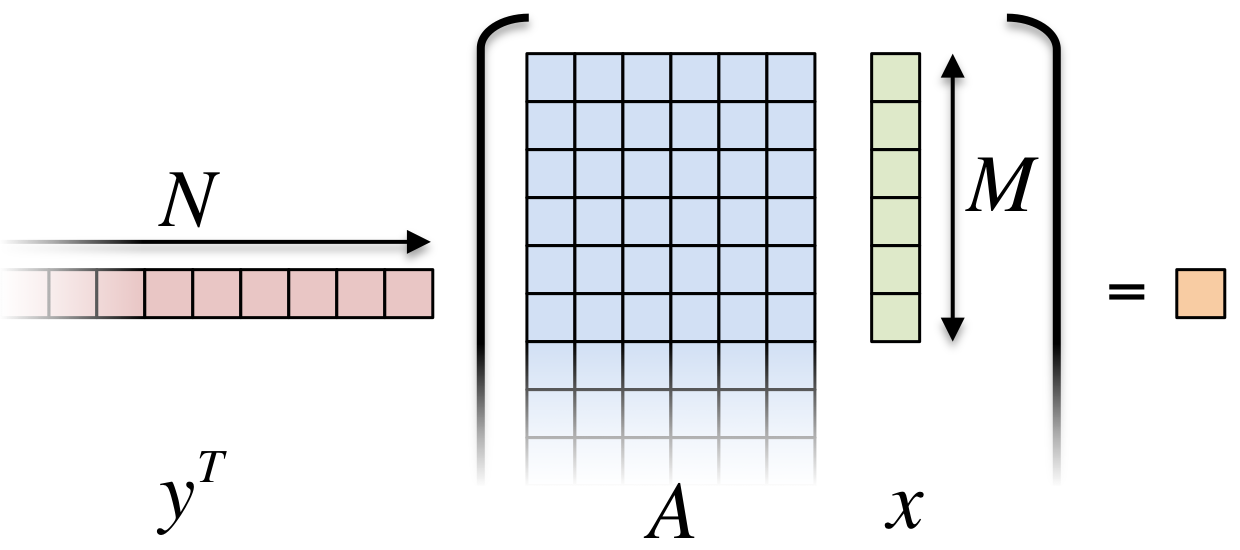
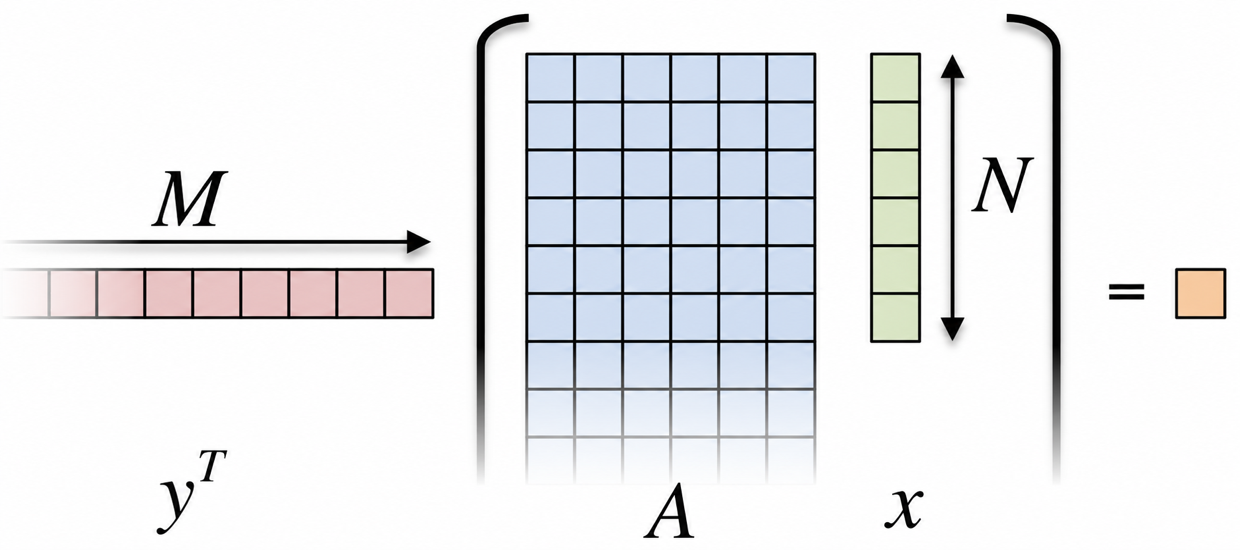
Match Matrix dimensions with textbook conventions, i.e., M rows and N columns

diff --git a/Content/Presentations/sections/Section_Hierarchical.tex b/Content/Presentations/sections/Section_Hierarchical.tex
@@ -34,10 +34,10 @@ try a scan and fill for fill array?
   \vspace{-3pt}
 
   \begin{code}[keywords={}]
-Kokkos::parallel_reduce("yAx",N,
+Kokkos::parallel_reduce("yAx",M,
   KOKKOS_LAMBDA (const int row, double & valueToUpdate) {
     double thisRowsSum = 0;
-    for (int col = 0; col < M; ++col) {
+    for (int col = 0; col < N; ++col) {
       thisRowsSum += @blueA@blue(row,col) * @darkgreenx@darkgreen(col);
     }
     valueToUpdate += @darkredy@darkred(row) * thisRowsSum;
@@ -85,7 +85,7 @@ Kokkos::parallel_reduce("yAx",N,
   \vspace{-3pt}
 
   \begin{code}[keywords={}]
-Kokkos::parallel_for("yAx", N*M,
+Kokkos::parallel_for("yAx", M*N,
   KOKKOS_LAMBDA (const size_t index) {
     const int row = extractRow(index);
     const int col = extractCol(index);
@@ -129,7 +129,7 @@ Kokkos::parallel_for("yAx", N*M,
   \begin{code}[keywords={}]
 for each row
   Functor functor(row, ...);
-  parallel_reduce(M, functor);
+  parallel_reduce(N, functor);
 }
   \end{code}
 
@@ -170,7 +170,7 @@ for each row
   \vspace{-3pt}
 
   \begin{enumerate}
-    \item{Do \textbf{one parallel launch} of \texttt{N} teams.}
+    \item{Do \textbf{one parallel launch} of \texttt{M} teams.}
     \item{Each team handles a row.}
     \item{The threads within \textbf{teams perform a reduction}.}
     \item{The thread teams \textbf{perform a reduction}.}
@@ -197,13 +197,13 @@ for each row
 
   \begin{code}
 parallel_reduce("yAx",
-  team_policy(N, Kokkos::AUTO),
+  team_policy(M, Kokkos::AUTO),
 
   KOKKOS_LAMBDA (const member_type & @blueteamMember@blue, double & @orangeupdate@orange) {
     int @purplerow@purple = @blueteamMember@blue.league_rank();
 
     double thisRowsSum = 0;
-    parallel_reduce(TeamThreadRange(@blueteamMember@blue, M),
+    parallel_reduce(TeamThreadRange(@blueteamMember@blue, N),
       [=] (int @darkgreencol@darkgreen, double & @redinnerUpdate@red) {
         @redinnerUpdate@red += A(@purplerow@purple, @darkgreencol@darkgreen) * x(@darkgreencol@darkgreen);
       }, thisRowsSum);
@@ -358,7 +358,7 @@ void operator()(const member_type & teamMember) {
   const size_t row = teamMember.league_rank();
 
   int begin = teamMember.team_rank();
-  for(int col = begin; col < M; col += teamMember.team_size()) {
+  for(int col = begin; col < N; col += teamMember.team_size()) {
     atomic_add(&@orangeresult@orange, @darkredy@darkred(row) * @blueA@blue(row,col) * @darkgreenx@darkgreen(entry));
   }
 @gray}@gray
@@ -392,7 +392,7 @@ void operator()(const member_type & teamMember) {
 @grayoperator() (member_type & teamMember, double & update) {
   const int row = teamMember.league_rank();@gray
   double @purplethisRowsSum@purple;
-  @pattern``do a reduction''@pattern(@policy``over M columns''@policy,
+  @pattern``do a reduction''@pattern(@policy``over N columns''@policy,
     [=] (const int col) {
       @purplethisRowsSum@purple += @blueA@blue(row,col) * @darkgreenx@darkgreen(col);
     });
@@ -434,7 +434,7 @@ void operator()(const member_type & teamMember) {
 @grayoperator() (const member_type & teamMember, double & update ) {
   const int row = teamMember.league_rank();@gray
   double @purplethisRowsSum@purple;
-  @patternparallel_reduce@pattern(@policyTeamThreadRange(teamMember, M)@policy,
+  @patternparallel_reduce@pattern(@policyTeamThreadRange(teamMember, N)@policy,
     [=] (const int col, double & thisRowsPartialSum ) {
       thisRowsPartialSum += @blueA@blue(row, col) * @darkgreenx@darkgreen(col);
     }, @purplethisRowsSum@purple );
@@ -549,7 +549,7 @@ parallel_something(
 \ul{\textbf{Things to try:}}
   \begin{small}
   \begin{itemize}
-  \item Vary problem size and number of rows (-S ...; -N ...)
+  \item Vary problem size and number of rows (-S ...; -M ...)
   \item Compare behavior with Exercise 4 for very non-square matrices
   \item Compare behavior of CPU vs GPU
   \end{itemize}
@@ -975,7 +975,7 @@ a third natural layer of parallelism.
 \ul{\textbf{Things to try:}}
   \begin{small}
   \begin{itemize}
-  \item Vary problem size and number of rows (-S ...; -N ...)
+  \item Vary problem size and number of rows (-S ...; -M ...)
   \item Compare behavior with TeamPolicy Exercise for very non-square matrices
   \item Compare behavior of CPU vs GPU
   \end{itemize}

diff --git a/Content/Presentations/sections/Section_KokkosKernels_BLAS.tex b/Content/Presentations/sections/Section_KokkosKernels_BLAS.tex
@@ -125,16 +125,16 @@
 %  \item Recall the Kokkos Inner Product exercise:
   \item Inner product $<y,A*x>$
   \begin{itemize}
-    \item $y$ is $Nx1$, $A$ is $NxM$,\\ $x$ is $Mx1$
+    \item $y$ is $Mx1$, $A$ is $MxN$,\\ $x$ is $Nx1$
   \end{itemize}
   \item Early exercise code looked like
 
   \begin{code}[keywords={double,parallel_reduce,for,int}]
 double result = 0;
-Kokkos::parallel_reduce("yAz", N,
+Kokkos::parallel_reduce("yAz", M,
     KOKKOS_LAMBDA (int j, double &update) {
       double temp2 = 0;
-      for (int i = 0; i < M; ++i) {
+      for (int i = 0; i < N; ++i) {
         temp2 += A(j, i) * x(i);
       }
       update += y(j) * temp2;
@@ -272,7 +272,7 @@ KokkosBlas::dot(r,x,y);
       \begin{flushleft}
       \vspace{-2em}
   \begin{code}[keywords={View,double,gemv,dot}, basicstyle=\tiny, breaklines=true]
-Kokkos::View<double*> tmp("tmp", N);
+Kokkos::View<double*> tmp("tmp", M);
 
 KokkosBlas::gemv("N",alpha,A,x,beta,tmp);
 
@@ -288,10 +288,10 @@ result = KokkosBlas::dot(y,tmp);
       \vspace{-2em}
   \begin{code}[keywords={parallel_reduce,for,int,double}, basicstyle=\tiny, breaklines=true]
 double result = 0;
-Kokkos::parallel_reduce("yAx", N, 
- KOKKOS_LAMBDA (int j, double &update) { 
+Kokkos::parallel_reduce("yAx", M,
+ KOKKOS_LAMBDA (int j, double &update) {
   double temp2 = 0;
-   for (int i = 0; i < M; ++i) { 
+   for (int i = 0; i < N; ++i) {
      temp2 += A(j, i) * x(i);
    }
    update += y(j) * temp2;

diff --git a/Content/Presentations/sections/Section_MemoryAccessPatterns.tex b/Content/Presentations/sections/Section_MemoryAccessPatterns.tex
@@ -22,10 +22,10 @@
 
   \begin{code}[keywords={}]
 Kokkos::parallel_reduce("Label", 
-  RangePolicy<ExecutionSpace>(0, N),
+  RangePolicy<ExecutionSpace>(0, M),
   KOKKOS_LAMBDA (const size_t row, double & valueToUpdate) {
     double thisRowsSum = 0;
-    for (size_t entry = 0; entry < M; ++entry) {
+    for (size_t entry = 0; entry < N; ++entry) {
       thisRowsSum += @blueA@blue(row, entry) * @darkgreenx@darkgreen(entry);
     }
     valueToUpdate += @darkredy@darkred(row) * thisRowsSum;
@@ -129,7 +129,7 @@ View<double***, @boldLayout@bold, Space> name(...);
 \ul{\textbf{Things to try:}}
   \begin{small}
   \begin{itemize}
-  \item Vary problem size and number of rows (-S ...; -N ...)
+  \item Vary problem size and number of rows (-S ...; -M ...)
   \item Change number of repeats (-nrepeat ...)
   \item Compare behavior of CPU vs GPU
   \item On GPUs, compare using \texttt{SharedSpace} vs using the default memory space, i.e, not providing an explicit memory space.
@@ -462,8 +462,8 @@ operator()(int index, double & valueToUpdate) const {
   \vspace{-3pt}
 
   \begin{code}[keywords={}]
-View<double**, @boldExecutionSpace@bold> @blueA@blue(N, M);
-parallel_for(RangePolicy< @boldExecutionSpace@bold>(0, N),
+View<double**, @boldExecutionSpace@bold> @blueA@blue(M, N);
+parallel_for(RangePolicy< @boldExecutionSpace@bold>(0, M),
   ... thisRowsSum += @blueA@blue(j, i) * @darkgreenx@darkgreen(i);
   \end{code}
 

diff --git a/Content/Presentations/sections/Section_DataParallelPatterns.tex b/Content/Presentations/sections/Section_DataParallelPatterns.tex
@@ -722,7 +722,7 @@ double totalIntegral = 0;
 
   \textbf{Details}:
   \begin{itemize}
-    \item $y$ is $Nx1$, $A$ is $NxM$, $x$ is $Mx1$
+    \item $y$ is $Mx1$, $A$ is $MxN$, $x$ is $Nx1$
     \item We'll use this exercise throughout the tutorial
   \end{itemize}
 
@@ -848,8 +848,8 @@ int main(int argc, char* argv[]) {
   \itemsep0em
 %  \item Vary number of threads
   \item Vary problem size with command line argument -S $s$
-  \item Vary number of rows with command line argument -N $n$
-  \item Num rows = $2^n$, num cols = $2^m$, total size = $2^s == 2^{n+m}$
+  \item Vary number of rows with command line argument -M $m$
+  \item Num rows = $2^m$, num cols = $2^n$, total size = $2^s == 2^{m+n}$
   \end{itemize}
   \end{small}
 \end{frame}

diff --git a/Content/Presentations/sections/Section_Spaces.tex b/Content/Presentations/sections/Section_Spaces.tex
@@ -927,7 +927,7 @@ auto @darkredhostView@darkred = @boldKokkos::create_mirror_view@bold(@darkgreenv
   \ul{\textbf{Things to try:}}
   \begin{scriptsize}
   \begin{itemize}
-  \item Vary problem size and number of rows (-S ...; -N ...)
+  \item Vary problem size and number of rows (-S ...; -M ...)
   \item Change number of repeats (-nrepeat ...)
   \item Compare behavior of CPU vs GPU
   \end{itemize}

diff --git a/Content/Presentations/sections/Section_ScratchSpace.tex b/Content/Presentations/sections/Section_ScratchSpace.tex
@@ -475,7 +475,7 @@ Use Scratch Memory to explicitly cache the x-vector for each element.
 \ul{\textbf{Things to try:}}
   \begin{small}
   \begin{itemize}
-  \item Vary problem size and number of rows (-S ...; -N ...)
+  \item Vary problem size and number of rows (-S ...; -M ...)
   \item Compare behavior with Exercise 6
   \item Compare behavior of CPU vs GPU
   \end{itemize}

diff --git a/Content/Presentations/sections/Section_Views.tex b/Content/Presentations/sections/Section_Views.tex
@@ -236,7 +236,7 @@ cmake --build build_openmp
   \begin{scriptsize}
   \begin{itemize}
   \item Vary problem size: \textbf{-S \#}
-  \item Vary number of rows: \textbf{-N \#}
+  \item Vary number of rows: \textbf{-M \#}
   \item Vary repeats: \textbf{-nrepeat \#}
   \item Compare performance of CPU vs GPU
   \end{itemize}
